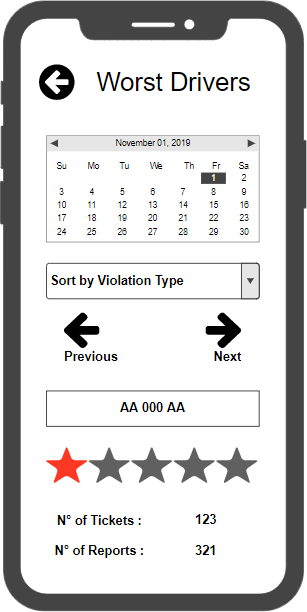
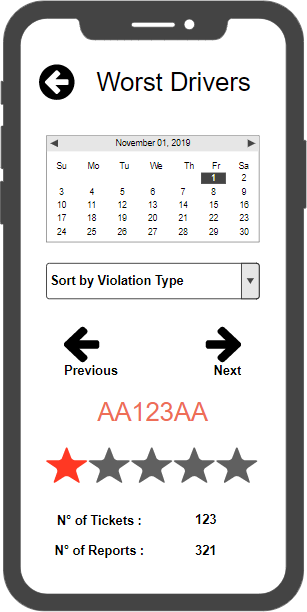
Modify mockups

Changed region(s): [[0.1466, 0.4967, 0.8502, 0.7141]]

diff --git a/RASD/images/mockups/mockups.tex b/RASD/images/mockups/mockups.tex
@@ -56,7 +56,7 @@
 \begin{figure}
 	\begin{flushleft}
 		\textbf{Worst Drivers Page}:\\
-		If the user wants to see which vehicles tends to not follow the city rules, an interface that shows this needs to be present in the application. A license plate search is better to be avoided.
+		If the user wants to see which vehicles tends to not follow the city rules, an interface that shows this needs to be present in the application.
 	\end{flushleft}
 	\centering
 	\includegraphics[width=0.6\linewidth]{images/mockups/vehicles}
